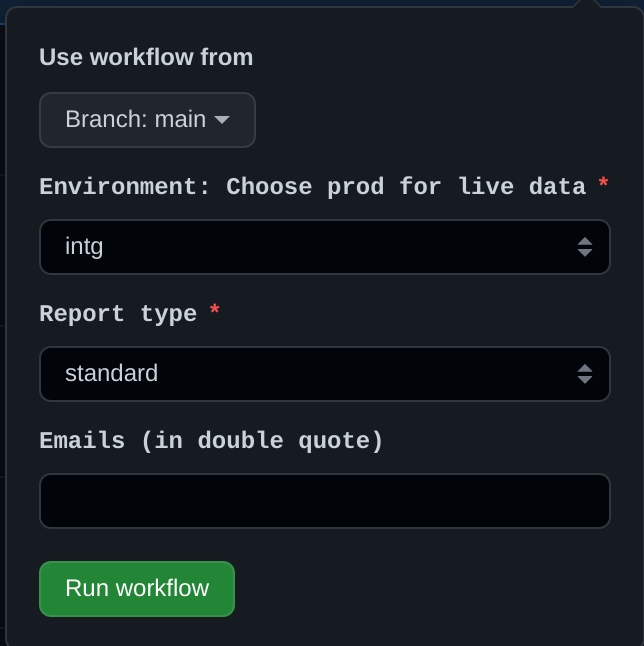
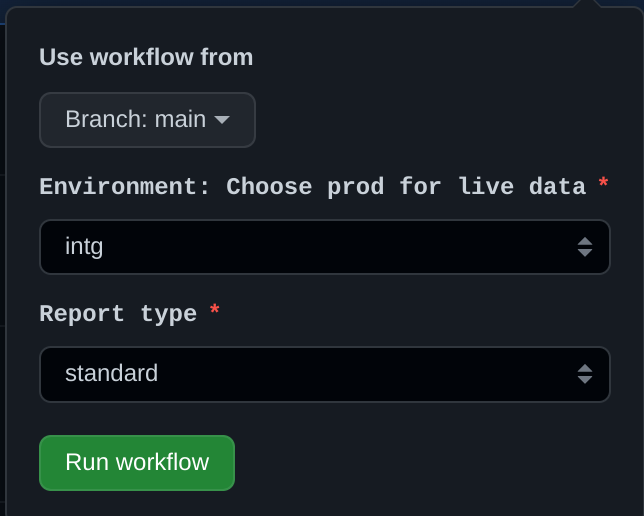
TDR-3672 Updated reporting documentation

diff --git a/manual/tdr-reporting.md b/manual/tdr-reporting.md
@@ -7,7 +7,7 @@ You will need a GitHub account. If you don't already have one, [you can create o
 
 If you are already a member of the `nationalarchives` GitHub organisation then you will already have access.
 
-If not, ask the TDR team to add you to the `tdr-reporting` repository as a collaborator. You can contact us [on our Slack channel](https://tna-digital.slack.com/archives/CJYJYG54L) Once this is done, we will let you know.
+If not, ask the TDR team to add you to the `tdr-reporting` repository as a collaborator. You can contact us [on our Slack channel](https://tna-digital.slack.com/archives/CJYJYG54L) Once this is done, we will let you know. You will also need to request access to the Reporting Slack channel: `da-tdr-reporting`
 
 ## Run the reports
 Go to the [tdr-reporting actions page](https://github.com/nationalarchives/tdr-reporting/actions/workflows/run.yml). You will see a page similar to this
@@ -18,7 +18,7 @@ Click "Run workflow" which will give you options like this:
 
 ![](./images/reporting_drop_down.png)
 
-You can ignore the first dropdown with Branch: main in it. The other three can be configured:
+You can ignore the first dropdown with Branch: main in it. The other two can be configured:
 
 ### Environment
 This determines which of the three TDR environments the report runs against and has three options:
@@ -29,7 +29,7 @@ This will give you live data.
 This is one of our test systems. It contains less data than Intg.
 
 #### Intg
-This is used for most of our testing and has a large amount of test data in it.
+This is used for most of our testing and has a large amount of test data in it. The report will only return the first page of results when run on intg.
 
 ### Report Type
 #### Standard
@@ -38,9 +38,5 @@ This is a detailed report containing all TDR consignments and includes the trans
 #### CaseLaw
 This report has fewer details than the standard report and only shows judgment transfers.
 
-### Emails
-The job will send the report through to Slack so this needs to be the email address associated with your TNA slack account. You can add more than one email address for multiple recipients but each needs to be enclosed in double quotes and separated by a comma. For example:
-* "user1@nationalarchives.gov.uk"
-* "user1@nationalarchives.gov.uk","user2@nationalarchives.gov.uk"
 
-The report will run and when it has finished, you should get a message from a Slack bot with a CSV file with your requested report.
+The report will run and when it has finished, the Slack bot will post the CSV file with your requested report to the `da-tdr-reporting` Slack channel.
